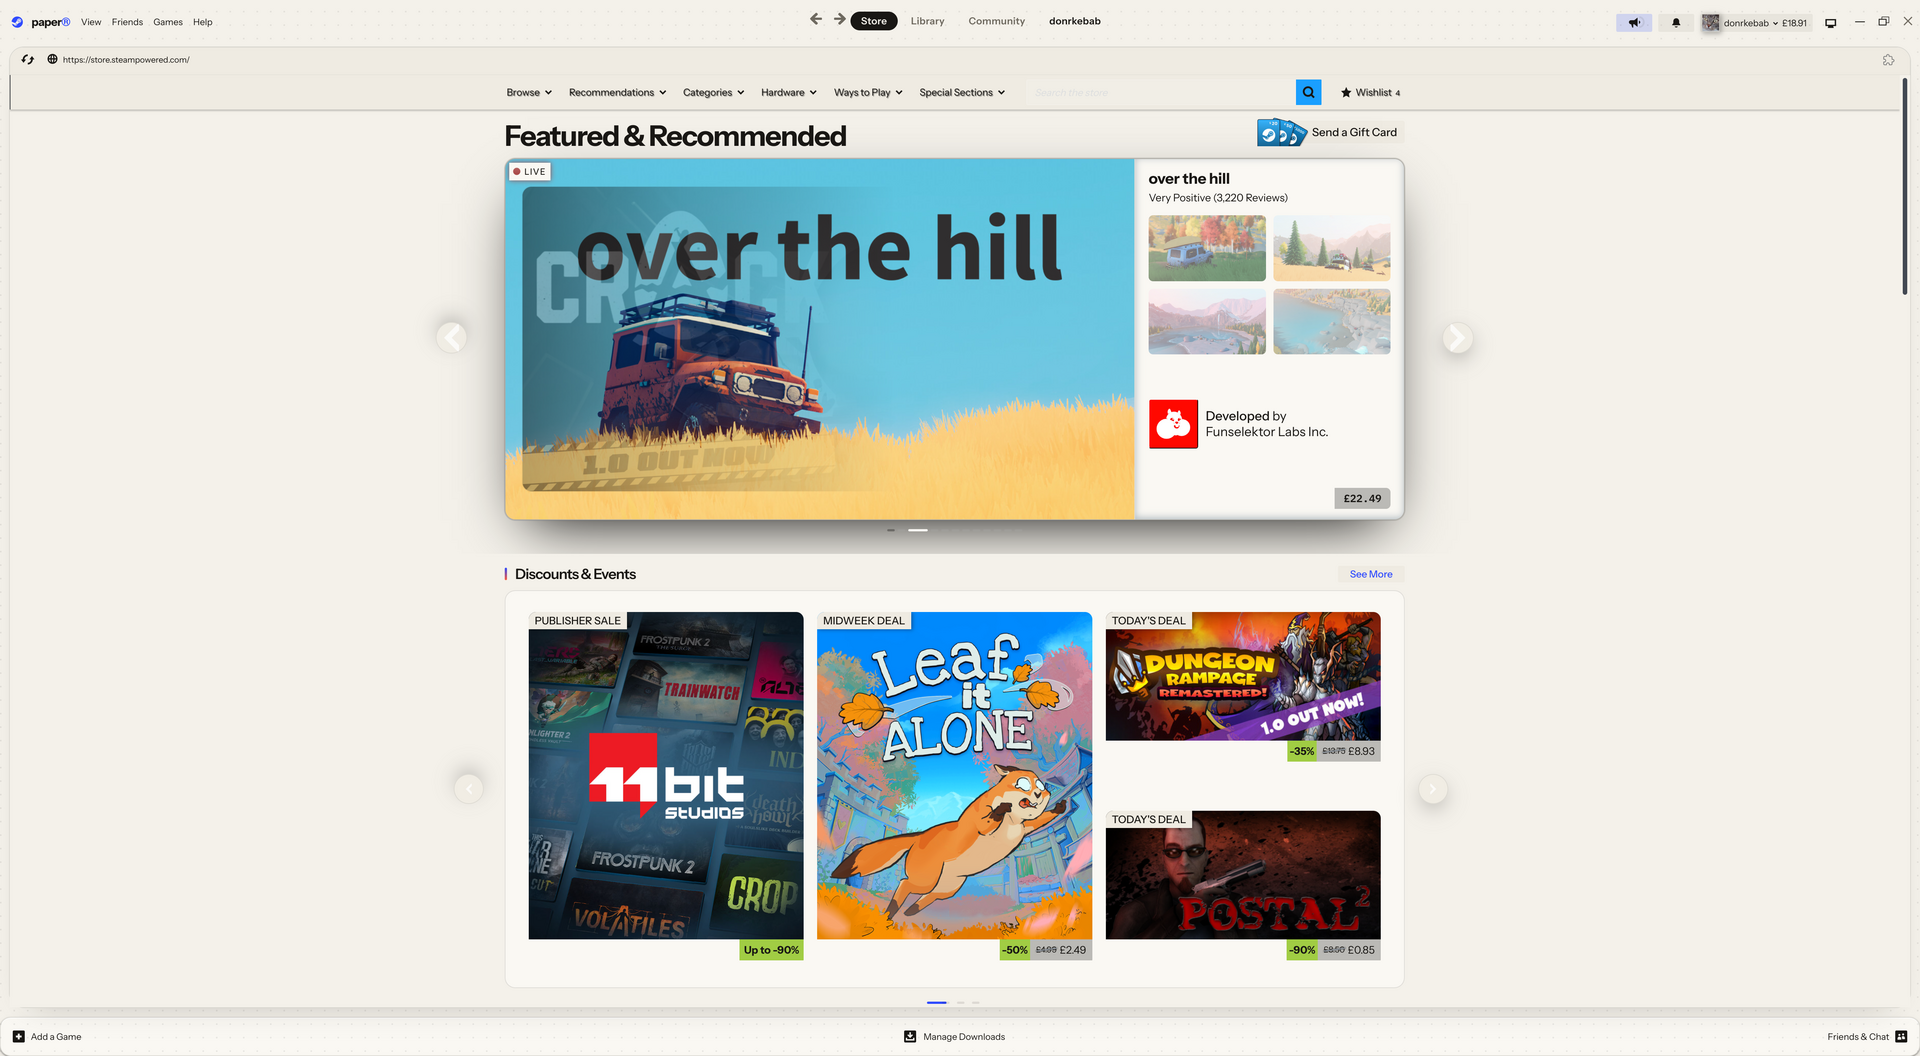
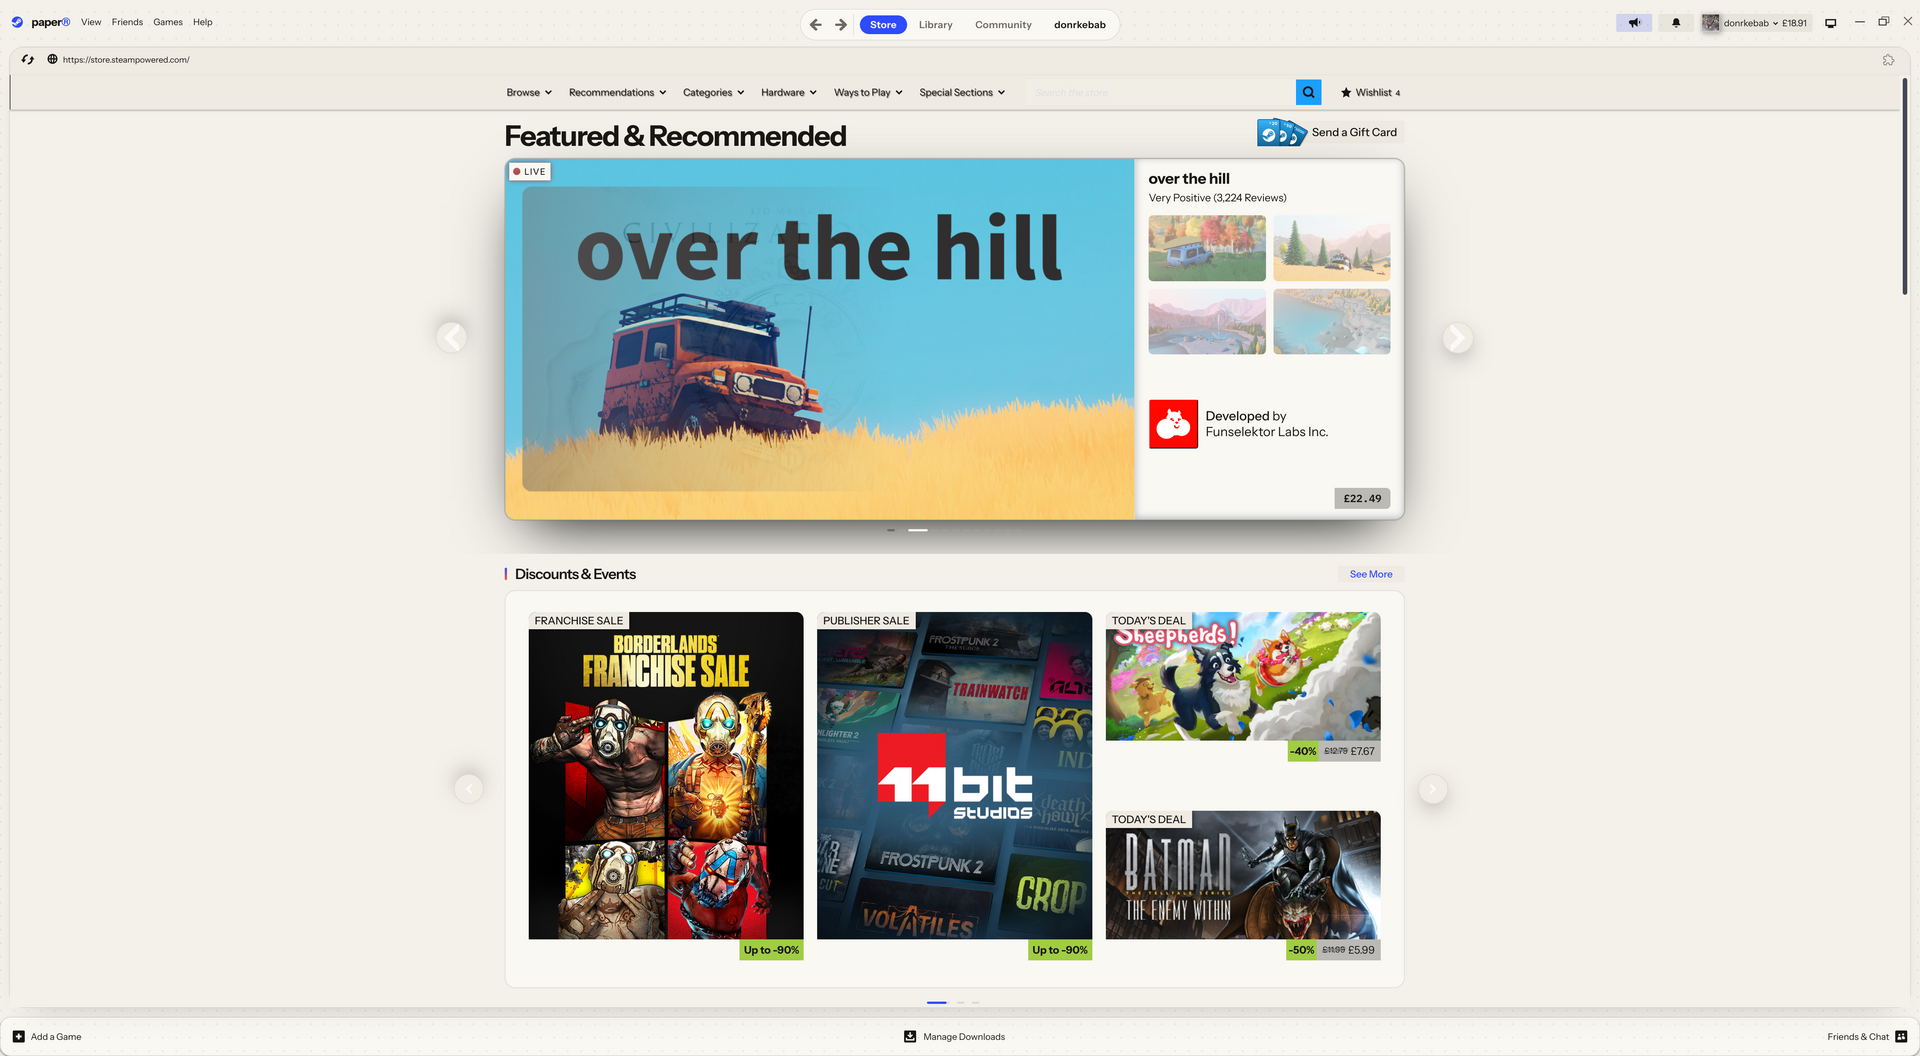
Full uncropped game art, solid play button, segmented nav bar, refreshed screenshots

Changed region(s): [[0.25, 0.5625, 0.7188, 0.9375], [0.25, 0.1562, 0.375, 0.4688], [0.4375, 0.0, 0.5625, 0.0312]]

diff --git a/mx/main.css b/mx/main.css
@@ -828,6 +828,7 @@ button.DialogButton:disabled,button.DialogButton:disabled:hover,button.DialogBut
 .StandalonePlayerHeader{background-color:color-mix(in srgb,var(--g2) 30%,transparent)!important}
 .yCd0zjymzfw3HkVm-1YwX{background-color:var(--g1)!important;background-color:var(--g0)!important}
 :root{--bg-solid:#f4f1ea;--bg:#f4f1ea;--text:#191714;--mute:#6f6a60;--acc:#2f4bff;--acc2:#ff5a36;--font:'Instrument Sans',system-ui,sans-serif;--font-display:'Instrument Sans',system-ui,sans-serif;--font-mono:'IBM Plex Mono',monospace;--r:10px;--grain:0;--panel:#faf8f3;--pop:#fffdf8;--input:#ffffff;--hover:#19171409;--line:#1917141f;--thumb:#19171433;--ring:#2f4bff33;--fx:radial-gradient(#19171414 1px,transparent 1.3px) 0 0/18px 18px;--h-size:28px;--h-w:700;--h-ls:-.035em;--h-fill:linear-gradient(#191714,#191714);--rule:#191714;--btn-r:10px;--btn-bg:#fffdf8;--btn-fg:#191714;--btn-border:1px solid #19171426;--btn-bg-h:#fff;--btn-fg-h:#191714;--btn-glow:0 6px 0 -2px #19171422,0 10px 24px -12px #19171455;--btn-pri:#191714;--btn-pri-fg:#f4f1ea;--surface-solid:#faf8f3;--surface-solid-2:#efebe2;--surface:#faf8f3;--surface-2:#efebe2;--dock:#fffdf8;--hi:#ffffff;--line-hi:#19171455;--spot:#2f4bff14;--gap:12px;--rx:14px;--rx-xl:20px;--icon-r:5px;--sel:#191714;--sel-fg:#f4f1ea;--sh-size:15px;--store-h1:38px;--shelf-size:24px;--cover-r:10px;--cover-glow:0 18px 30px -16px #19171466;--rail-bg:#efebe2;--logo-a:"paper";--logo-b:"®";--logo-font:700 15px 'Instrument Sans',sans-serif;--logo-ls:-.03em;--nav-size:13px;--nav-w:600;--nav-sel-bg:#191714;--nav-sel-fg:#f4f1ea;--st-online:#1f6fd1;--st-ingame:#2d8a3e;--price-bg:#191714;--price-fg:#f4f1ea;--avatar-r:50%}
+:root{--play-r:10px}
 html,body{-webkit-font-smoothing:antialiased}
 body::before{content:"";position:fixed;inset:-20%;pointer-events:none;z-index:0;contain:strict;background:var(--fx)}
 ._3AhYljPF4e4E8LaBt-FoY0{border-radius:var(--r);transition:.1s}
@@ -850,8 +851,13 @@ body::before{content:"";position:fixed;inset:-20%;pointer-events:none;z-index:0;
 .bSKGlAJG2UVWTsntEJY2v::after{display:inline-flex;align-items:center}
 ._3ydigb6zZAjJ0JCDgHwSYA._2AzIX5kl9k6JnxLfR5H4kX{min-width:180px;gap:8px}
 ._39oUCO1OuizVPwcnnv88no ._1Ky59qmywxOUtNcI1cgmkX{align-items:center;padding-left:10px}
-.NZMJ6g2iVnFsOOp-lDmIP{position:relative}
 ._3LKQ3S_yqrebeNLF6aeiog{position:relative;border-radius:6px}
+.q-hero-fade{position:absolute;pointer-events:none;z-index:1;background:linear-gradient(transparent 75%,var(--bg-solid) 100%)}
+._3ydigb6zZAjJ0JCDgHwSYA._2AzIX5kl9k6JnxLfR5H4kX:has(.SVGIcon_Play):hover,._2AzIX5kl9k6JnxLfR5H4kX._2q-gZ3XJzlvSGHSF-GvSmi:hover{filter:brightness(1.12)}
+._3Z3ohQ8-1NKnCZkbS6fvy ._2D64jIEK7wpUR_NlObDW76{align-items:center;gap:2px;border-radius:var(--nav-r,999px);background:var(--surface-solid);border:1px solid var(--line);box-shadow:inset 0 1px 0 var(--hi,#fff1)}
+._3Z3ohQ8-1NKnCZkbS6fvy ._2D64jIEK7wpUR_NlObDW76 svg{border-radius:var(--nav-r,999px);transition:background .1s,color .1s}
+._3Z3ohQ8-1NKnCZkbS6fvy ._2D64jIEK7wpUR_NlObDW76 svg:hover{background:var(--hover)}
+._3Z3ohQ8-1NKnCZkbS6fvy ._2D64jIEK7wpUR_NlObDW76 svg:nth-of-type(2){margin-right:6px;border-right:1px solid var(--line);border-radius:var(--nav-r,999px) 0 0 var(--nav-r,999px)}
 :root{--ease:cubic-bezier(.2,.9,.25,1)}
 ._3fLo166MlaNqP8r8tTyRz,._1nTD-C3qRvYp3RSRZSegz3>div,._3vCzSrrXZzZjVJFZNg9SGu{transition:border-color .1s var(--ease)}
 @keyframes rise{from{opacity:0;transform:translateY(18px) scale(.985);}to{opacity:1;transform:none}}
@@ -929,6 +935,7 @@ body::before{content:"";position:fixed;inset:-20%;pointer-events:none;z-index:0;
 ._1R9r2OBCxAmtuUVrgBEUBw:hover{transform:translateY(-5px) rotate(-.6deg)}
 ._23SnllqT_AqZ1C_QHcNQ4Z::after{background:#191714;height:1px}
 ._3NBxSLAZLbbbnul8KfDFjw{filter:drop-shadow(0 6px 16px #0006)}
+:root{--play-r:10px}
 @layer theme{
 :root{--st-background:244,241,234!important;--st-color-1:250,248,243!important;--st-color-2:236,232,223!important;--st-color-3:241,238,230!important;--st-color-4:233,229,220!important;--st-color-5:214,209,198!important;--st-color-6:222,217,207!important;--st-accent-1:47,75,255!important;--st-accent-2:255,90,54!important;--st-blue:25,23,20!important;--st-blue-hover:60,56,50!important;--st-green:45,138,62!important;--st-green-hover:60,160,80!important;--st-red:215,38,61!important;--st-red-hover:230,70,90!important;--st-yellow:224,161,0!important;--st-yellow-hover:240,180,30!important;--st-border-radius:12px!important}
 :root{--gpColor-Blue:var(--acc)!important;--gpColor-Yellow:var(--acc2)!important}
@@ -966,16 +973,28 @@ body :is(input,textarea,:is([contenteditable=""],[contenteditable=true],[content
 ._39oUCO1OuizVPwcnnv88no ._1Ky59qmywxOUtNcI1cgmkX{height:56px!important}
 ._1rDh5rXSFZJOqCa4UpnI4z{margin-top:6px!important}
 ._39oUCO1OuizVPwcnnv88no>*,._39oUCO1OuizVPwcnnv88no>*>*{align-self:center!important}
-.NZMJ6g2iVnFsOOp-lDmIP{overflow:hidden!important;background:#000!important}
-.NZMJ6g2iVnFsOOp-lDmIP .QlR9EFwTdUNm_J5vx54_Z,.NZMJ6g2iVnFsOOp-lDmIP ._2aPcBP45fdgOK22RN0jbhm{position:static!important}
-.NZMJ6g2iVnFsOOp-lDmIP .HNbe3eZf6H7dtJ042x1vM.HSQWw9HUAP6jtA2OZjS-u,.NZMJ6g2iVnFsOOp-lDmIP .HNbe3eZf6H7dtJ042x1vM._3_IUVzR9tpG_JKEjhwXEAb,.NZMJ6g2iVnFsOOp-lDmIP ._1ssCErQIw1aTDS36tCKZJy{display:none!important}
-.NZMJ6g2iVnFsOOp-lDmIP .HNbe3eZf6H7dtJ042x1vM:not(.HSQWw9HUAP6jtA2OZjS-u):not(._3_IUVzR9tpG_JKEjhwXEAb){position:absolute!important;top:0!important;left:50%!important;right:auto!important;transform:translateX(-50%)!important;width:min(100%,1660px)!important;max-width:none!important;height:100%!important;margin:0!important;object-fit:cover!important;object-position:center!important;-webkit-mask-image:linear-gradient(90deg,transparent 0,#000 10%,#000 90%,transparent 100%)!important;mask-image:linear-gradient(90deg,transparent 0,#000 10%,#000 90%,transparent 100%)!important;-webkit-mask-size:100% 100%!important}
 ._3x1HklzyDs4TEjACrRO2tB,._3x1HklzyDs4TEjACrRO2tB ._1ijTaXJJA5YWl_fW2IxcaT{background:var(--rail-bg,var(--surface-solid))!important}
 ._3LKQ3S_yqrebeNLF6aeiog{align-self:center!important;height:28px!important}
 ._3LKQ3S_yqrebeNLF6aeiog ._34bQcTHo5QKzuujoEyU1tm{position:static!important;top:auto!important}
 ._3x1HklzyDs4TEjACrRO2tB :focus,._3x1HklzyDs4TEjACrRO2tB :focus-visible,._3x1HklzyDs4TEjACrRO2tB .gpfocus{outline:none!important;box-shadow:none!important}
 ._3x1HklzyDs4TEjACrRO2tB ._1ijTaXJJA5YWl_fW2IxcaT,._3x1HklzyDs4TEjACrRO2tB .ReactVirtualized__Grid{border:0!important;outline:0!important}
 ._26Gmfe09NRsnF7eprTZYdY{background:var(--surface-solid)!important;border-bottom:1px solid var(--line)!important;padding-inline-start:16px!important}
+.NZMJ6g2iVnFsOOp-lDmIP{overflow:hidden!important;background:#000!important}
+.NZMJ6g2iVnFsOOp-lDmIP .HNbe3eZf6H7dtJ042x1vM.HSQWw9HUAP6jtA2OZjS-u,.NZMJ6g2iVnFsOOp-lDmIP .HNbe3eZf6H7dtJ042x1vM._3_IUVzR9tpG_JKEjhwXEAb{display:none!important}
+.NZMJ6g2iVnFsOOp-lDmIP img.q-hero{-webkit-mask-image:none!important;mask-image:none!important;max-width:none!important;max-height:none!important;margin:0!important;transform:none!important;object-fit:fill!important}
+.NZMJ6g2iVnFsOOp-lDmIP ._2DVdg_N1qLNDdnxJqN-RBX,.NZMJ6g2iVnFsOOp-lDmIP ._3NBxSLAZLbbbnul8KfDFjw{z-index:3!important}
+._3ydigb6zZAjJ0JCDgHwSYA._2AzIX5kl9k6JnxLfR5H4kX:has(.SVGIcon_Play),._3ydigb6zZAjJ0JCDgHwSYA._2AzIX5kl9k6JnxLfR5H4kX:has(.SVGIcon_Download),._2AzIX5kl9k6JnxLfR5H4kX._2q-gZ3XJzlvSGHSF-GvSmi{background:var(--acc)!important;background-image:none!important;animation:none!important;box-shadow:none!important;border:0!important}
+._3ydigb6zZAjJ0JCDgHwSYA._2AzIX5kl9k6JnxLfR5H4kX:has(.SVGIcon_Play),._3ydigb6zZAjJ0JCDgHwSYA._2AzIX5kl9k6JnxLfR5H4kX:has(.SVGIcon_Download){border-radius:var(--play-r,10px) 0 0 var(--play-r,10px)!important;color:var(--btn-pri-fg)!important;font-weight:800!important;letter-spacing:.04em!important}
+._3ydigb6zZAjJ0JCDgHwSYA._2AzIX5kl9k6JnxLfR5H4kX:has(.SVGIcon_Play) *,._3ydigb6zZAjJ0JCDgHwSYA._2AzIX5kl9k6JnxLfR5H4kX:has(.SVGIcon_Download) *{color:var(--btn-pri-fg)!important;fill:var(--btn-pri-fg)!important;filter:none!important;opacity:1!important}
+._2AzIX5kl9k6JnxLfR5H4kX._2q-gZ3XJzlvSGHSF-GvSmi{border-radius:0 var(--play-r,10px) var(--play-r,10px) 0!important;margin-left:2px!important;color:var(--btn-pri-fg)!important}
+._2AzIX5kl9k6JnxLfR5H4kX._2q-gZ3XJzlvSGHSF-GvSmi *{fill:var(--btn-pri-fg)!important;color:var(--btn-pri-fg)!important}
+._3ydigb6zZAjJ0JCDgHwSYA._2AzIX5kl9k6JnxLfR5H4kX:has(.SVGIcon_Play):hover,._2AzIX5kl9k6JnxLfR5H4kX._2q-gZ3XJzlvSGHSF-GvSmi:hover{transform:none!important}
+._3Z3ohQ8-1NKnCZkbS6fvy ._2D64jIEK7wpUR_NlObDW76{display:flex!important;padding:4px!important}
+._3Z3ohQ8-1NKnCZkbS6fvy ._2D64jIEK7wpUR_NlObDW76 svg{padding:6px 8px!important;color:var(--mute)!important;fill:var(--mute)!important}
+._3Z3ohQ8-1NKnCZkbS6fvy ._2D64jIEK7wpUR_NlObDW76 svg:hover{color:var(--text)!important;fill:var(--text)!important}
+._3Z3ohQ8-1NKnCZkbS6fvy ._7AlhCx3XGzBeIrQaCneUD{padding:6px 16px!important;margin:0!important}
+._3Z3ohQ8-1NKnCZkbS6fvy ._7AlhCx3XGzBeIrQaCneUD._1gqEjB5QsKT_NftD1dEsdZ{background:var(--acc)!important;box-shadow:none!important}
+._3Z3ohQ8-1NKnCZkbS6fvy ._7AlhCx3XGzBeIrQaCneUD._1gqEjB5QsKT_NftD1dEsdZ ._19axKcqYRuaJ8vdYKYmtTQ{color:var(--btn-pri-fg)!important;font-weight:700!important}
 ._3fLo166MlaNqP8r8tTyRz,._1nTD-C3qRvYp3RSRZSegz3>div,._3vCzSrrXZzZjVJFZNg9SGu{background:var(--surface)!important;border:1px solid var(--line)!important;border-radius:var(--rx)!important;box-shadow:inset 0 1px 0 var(--hi),0 1px 2px #0006,0 8px 20px -14px #000!important}
 ._1nTD-C3qRvYp3RSRZSegz3>div:hover{border-color:var(--line-hi)!important}
 ._23SnllqT_AqZ1C_QHcNQ4Z{font-family:var(--font-display)!important;font-size:var(--sh-size,15px)!important;letter-spacing:var(--sh-ls,-.01em)!important}

diff --git a/mx/main.js b/mx/main.js
@@ -3,3 +3,19 @@
 const o=document.createElement('div');o.id='q-load';o.innerHTML='<div class="q-mark"></div><div class="q-bar"></div>';
 const add=()=>document.body&&!o.isConnected&&document.body.appendChild(o);document.body?add():addEventListener('DOMContentLoaded',add,{once:true});
 const t0=Date.now(),iv=setInterval(()=>{if(document.querySelector('.Rp8QOGJ2DypeDniMnRBhr')){clearInterval(iv);o.remove();return}add();if(document.querySelector('._1rDh5rXSFZJOqCa4UpnI4z ._3x1HklzyDs4TEjACrRO2tB,._1rDh5rXSFZJOqCa4UpnI4z ._2B7WsaKHDSav8vpQUxkVRB,._1rDh5rXSFZJOqCa4UpnI4z .NZMJ6g2iVnFsOOp-lDmIP')||Date.now()-t0>8000){clearInterval(iv);o.classList.add('out');setTimeout(()=>o.remove(),350)}},100)})();
+// game-page hero: show the whole art (no crop) centred in the *visible* banner, black fades on both ends
+(()=>{let raf=0;const place=()=>{raf=0;
+ const hero=document.querySelector('.NZMJ6g2iVnFsOOp-lDmIP');if(!hero)return;
+ const img=[...hero.querySelectorAll('img.HNbe3eZf6H7dtJ042x1vM')].find(i=>!i.classList.contains('HSQWw9HUAP6jtA2OZjS-u')&&!i.classList.contains('_3_IUVzR9tpG_JKEjhwXEAb'));if(!img||!img.naturalWidth)return;
+ for(let p=img.parentElement;p&&p!==hero;p=p.parentElement){for(const [k,v] of [['overflow','visible'],['position','static'],['transform','none'],['clip-path','none'],['-webkit-mask-image','none'],['mask-image','none']])p.style.setProperty(k,v,'important')}
+ if(getComputedStyle(hero).position==='static')hero.style.setProperty('position','relative','important');
+ const op=hero,hr=hero.getBoundingClientRect(),pr=hr;
+ let vl=hr.left,vr=hr.right;for(let p=hero.parentElement;p&&p!==document.body;p=p.parentElement){const s=getComputedStyle(p);if(s.overflowX!=='visible'){const r=p.getBoundingClientRect();vl=Math.max(vl,r.left);vr=Math.min(vr,r.left+p.clientWidth)}}
+ const w=vr-vl,ar=img.naturalWidth/img.naturalHeight,iw=w,ih=Math.round(w/ar);
+ hero.style.setProperty('height',ih+'px','important');hero.style.setProperty('max-height','none','important');hero.style.setProperty('min-height','0','important');
+ const h=ih;
+ img.classList.add('q-hero');Object.assign(img.style,{position:'absolute',left:(vl-pr.left)+'px',top:'0px',width:iw+'px',height:ih+'px'});
+ let f=op.querySelector(':scope>.q-hero-fade');if(!f){f=document.createElement('div');f.className='q-hero-fade';op.appendChild(f)}
+ Object.assign(f.style,{left:img.style.left,top:img.style.top,width:iw+'px',height:ih+'px'})};
+ const q=()=>{if(!raf)raf=requestAnimationFrame(place)};
+ addEventListener('resize',q);new MutationObserver(q).observe(document.documentElement,{childList:true,subtree:true});document.addEventListener('load',q,true)})();

diff --git a/mx/popup.css b/mx/popup.css
@@ -50,6 +50,7 @@
 }
 @layer opt, theme;
 :root{--bg-solid:#f4f1ea;--bg:#f4f1ea;--text:#191714;--mute:#6f6a60;--acc:#2f4bff;--acc2:#ff5a36;--font:'Instrument Sans',system-ui,sans-serif;--font-display:'Instrument Sans',system-ui,sans-serif;--font-mono:'IBM Plex Mono',monospace;--r:10px;--grain:0;--panel:#faf8f3;--pop:#fffdf8;--input:#ffffff;--hover:#19171409;--line:#1917141f;--thumb:#19171433;--ring:#2f4bff33;--fx:radial-gradient(#19171414 1px,transparent 1.3px) 0 0/18px 18px;--h-size:28px;--h-w:700;--h-ls:-.035em;--h-fill:linear-gradient(#191714,#191714);--rule:#191714;--btn-r:10px;--btn-bg:#fffdf8;--btn-fg:#191714;--btn-border:1px solid #19171426;--btn-bg-h:#fff;--btn-fg-h:#191714;--btn-glow:0 6px 0 -2px #19171422,0 10px 24px -12px #19171455;--btn-pri:#191714;--btn-pri-fg:#f4f1ea;--surface-solid:#faf8f3;--surface-solid-2:#efebe2;--surface:#faf8f3;--surface-2:#efebe2;--dock:#fffdf8;--hi:#ffffff;--line-hi:#19171455;--spot:#2f4bff14;--gap:12px;--rx:14px;--rx-xl:20px;--icon-r:5px;--sel:#191714;--sel-fg:#f4f1ea;--sh-size:15px;--store-h1:38px;--shelf-size:24px;--cover-r:10px;--cover-glow:0 18px 30px -16px #19171466;--rail-bg:#efebe2;--logo-a:"paper";--logo-b:"®";--logo-font:700 15px 'Instrument Sans',sans-serif;--logo-ls:-.03em;--nav-size:13px;--nav-w:600;--nav-sel-bg:#191714;--nav-sel-fg:#f4f1ea;--st-online:#1f6fd1;--st-ingame:#2d8a3e;--price-bg:#191714;--price-fg:#f4f1ea;--avatar-r:50%}
+:root{--play-r:10px}
 :root{--ease:cubic-bezier(.2,.9,.25,1)}
 ._1OOQPJx0nCNP9ME9toCmV7 ._3-H47wPl1Ng3lh7xGZOPIg{overflow:hidden;position:relative;animation:toast .35s var(--ease) both}
 ._1OOQPJx0nCNP9ME9toCmV7 ._3-H47wPl1Ng3lh7xGZOPIg::before{content:"";position:absolute;left:0;top:0;bottom:0;width:3px;background:linear-gradient(var(--acc),var(--acc2))}

diff --git a/mx/webkit.css b/mx/webkit.css
@@ -59,6 +59,7 @@
 --logo-a:"paper";--logo-b:"®";--logo-font:700 15px 'Instrument Sans',sans-serif;--logo-ls:-.03em;
 --nav-size:13px;--nav-w:600;--nav-sel-bg:#191714;--nav-sel-fg:#f4f1ea;--st-online:#1f6fd1;--st-ingame:#2d8a3e;--price-bg:#191714;--price-fg:#f4f1ea;--avatar-r:50%}
 :root{--st-background:244,241,234!important;--st-color-1:250,248,243!important;--st-color-2:236,232,223!important;--st-color-3:241,238,230!important;--st-color-4:233,229,220!important;--st-color-5:214,209,198!important;--st-color-6:222,217,207!important;--st-accent-1:47,75,255!important;--st-accent-2:255,90,54!important;--st-blue:25,23,20!important;--st-blue-hover:60,56,50!important;--st-green:45,138,62!important;--st-green-hover:60,160,80!important;--st-red:215,38,61!important;--st-red-hover:230,70,90!important;--st-yellow:224,161,0!important;--st-yellow-hover:240,180,30!important;--st-border-radius:12px!important}
+:root{--play-r:10px}
 /* store / community pages */
 html,body,body.v6,.responsive_page_frame,.page_background_holder{background:var(--bg)!important;color:var(--text)!important;font-family:var(--font)!important}
 ::selection{background:var(--acc);color:var(--bg-solid)}

diff --git a/mx/opt/accent-forest.css b/mx/opt/accent-forest.css
@@ -1,3 +1,3 @@
 @layer opt{
-:root{--acc:#1f7a4d!important;--acc2:#e0a100!important;--ring:#1f7a4d40!important;--spot:#1f7a4d1f!important;--line-hi:#1f7a4d66!important;--sel:#1f7a4d!important;--sel-fg:#ffffff!important;--btn-pri:linear-gradient(110deg,#1f7a4d,#e0a100,#1f7a4d)!important;--btn-pri-fg:#ffffff!important;--price-bg:#1f7a4d!important;--price-fg:#ffffff!important;--st-accent-1:31,122,77!important;--st-accent-2:224,161,0!important;--st-blue:31,122,77!important;--st-blue-hover:224,161,0!important}
+:root{--acc:#1f7a4d!important;--acc2:#e0a100!important;--ring:#1f7a4d40!important;--spot:#1f7a4d1f!important;--line-hi:#1f7a4d66!important;--sel:#1f7a4d!important;--sel-fg:#ffffff!important;--btn-pri:#1f7a4d!important;--btn-pri-fg:#ffffff!important;--price-bg:#1f7a4d!important;--price-fg:#ffffff!important;--st-accent-1:31,122,77!important;--st-accent-2:224,161,0!important;--st-blue:31,122,77!important;--st-blue-hover:224,161,0!important}
 }

diff --git a/mx/opt/accent-inkred.css b/mx/opt/accent-inkred.css
@@ -1,3 +1,3 @@
 @layer opt{
-:root{--acc:#d7263d!important;--acc2:#2f4bff!important;--ring:#d7263d40!important;--spot:#d7263d1f!important;--line-hi:#d7263d66!important;--sel:#d7263d!important;--sel-fg:#ffffff!important;--btn-pri:linear-gradient(110deg,#d7263d,#2f4bff,#d7263d)!important;--btn-pri-fg:#ffffff!important;--price-bg:#d7263d!important;--price-fg:#ffffff!important;--st-accent-1:215,38,61!important;--st-accent-2:47,75,255!important;--st-blue:215,38,61!important;--st-blue-hover:47,75,255!important}
+:root{--acc:#d7263d!important;--acc2:#2f4bff!important;--ring:#d7263d40!important;--spot:#d7263d1f!important;--line-hi:#d7263d66!important;--sel:#d7263d!important;--sel-fg:#ffffff!important;--btn-pri:#d7263d!important;--btn-pri-fg:#ffffff!important;--price-bg:#d7263d!important;--price-fg:#ffffff!important;--st-accent-1:215,38,61!important;--st-accent-2:47,75,255!important;--st-blue:215,38,61!important;--st-blue-hover:47,75,255!important}
 }

diff --git a/mx/opt/accent-graphite.css b/mx/opt/accent-graphite.css
@@ -1,3 +1,3 @@
 @layer opt{
-:root{--acc:#191714!important;--acc2:#ff5a36!important;--ring:#19171440!important;--spot:#1917141f!important;--line-hi:#19171466!important;--sel:#191714!important;--sel-fg:#ffffff!important;--btn-pri:linear-gradient(110deg,#191714,#ff5a36,#191714)!important;--btn-pri-fg:#ffffff!important;--price-bg:#191714!important;--price-fg:#ffffff!important;--st-accent-1:25,23,20!important;--st-accent-2:255,90,54!important;--st-blue:25,23,20!important;--st-blue-hover:255,90,54!important}
+:root{--acc:#191714!important;--acc2:#ff5a36!important;--ring:#19171440!important;--spot:#1917141f!important;--line-hi:#19171466!important;--sel:#191714!important;--sel-fg:#ffffff!important;--btn-pri:#191714!important;--btn-pri-fg:#ffffff!important;--price-bg:#191714!important;--price-fg:#ffffff!important;--st-accent-1:25,23,20!important;--st-accent-2:255,90,54!important;--st-blue:25,23,20!important;--st-blue-hover:255,90,54!important}
 }

diff --git a/mx/root.css b/mx/root.css
@@ -9,3 +9,4 @@
 --logo-a:"paper";--logo-b:"®";--logo-font:700 15px 'Instrument Sans',sans-serif;--logo-ls:-.03em;
 --nav-size:13px;--nav-w:600;--nav-sel-bg:#191714;--nav-sel-fg:#f4f1ea;--st-online:#1f6fd1;--st-ingame:#2d8a3e;--price-bg:#191714;--price-fg:#f4f1ea;--avatar-r:50%}
 :root{--st-background:244,241,234!important;--st-color-1:250,248,243!important;--st-color-2:236,232,223!important;--st-color-3:241,238,230!important;--st-color-4:233,229,220!important;--st-color-5:214,209,198!important;--st-color-6:222,217,207!important;--st-accent-1:47,75,255!important;--st-accent-2:255,90,54!important;--st-blue:25,23,20!important;--st-blue-hover:60,56,50!important;--st-green:45,138,62!important;--st-green-hover:60,160,80!important;--st-red:215,38,61!important;--st-red-hover:230,70,90!important;--st-yellow:224,161,0!important;--st-yellow-hover:240,180,30!important;--st-border-radius:12px!important}
+:root{--play-r:10px}
